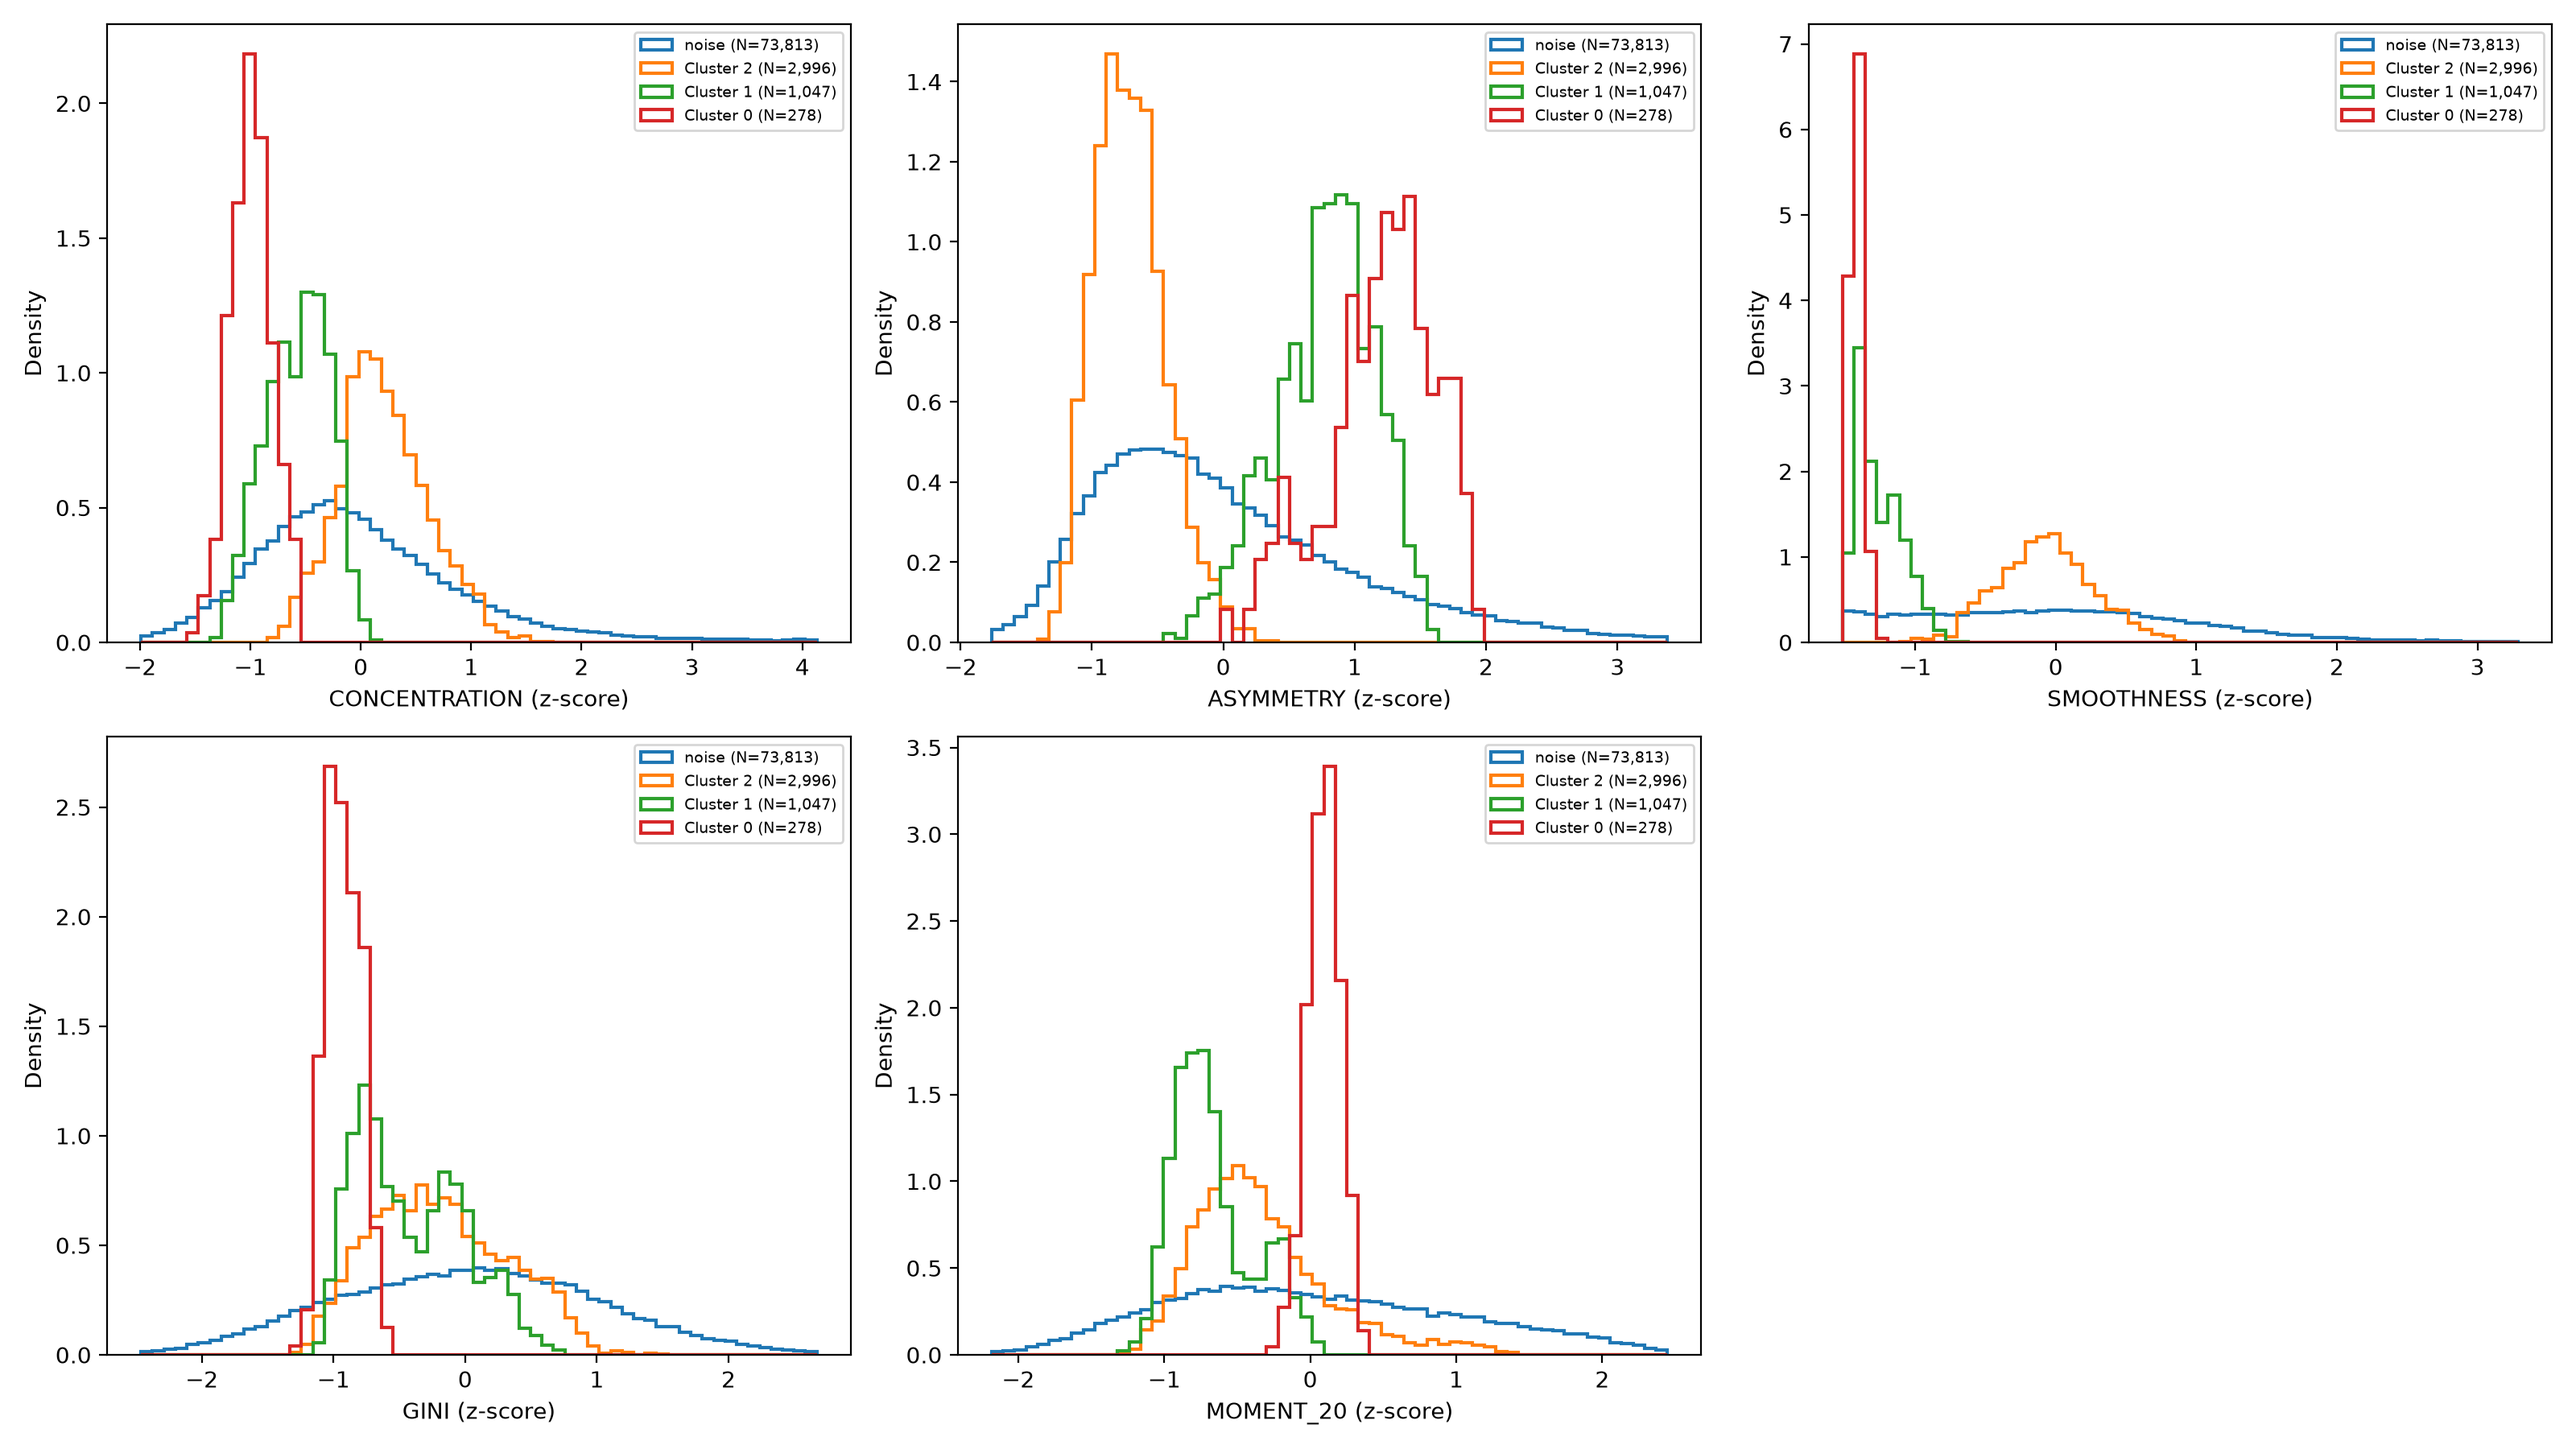
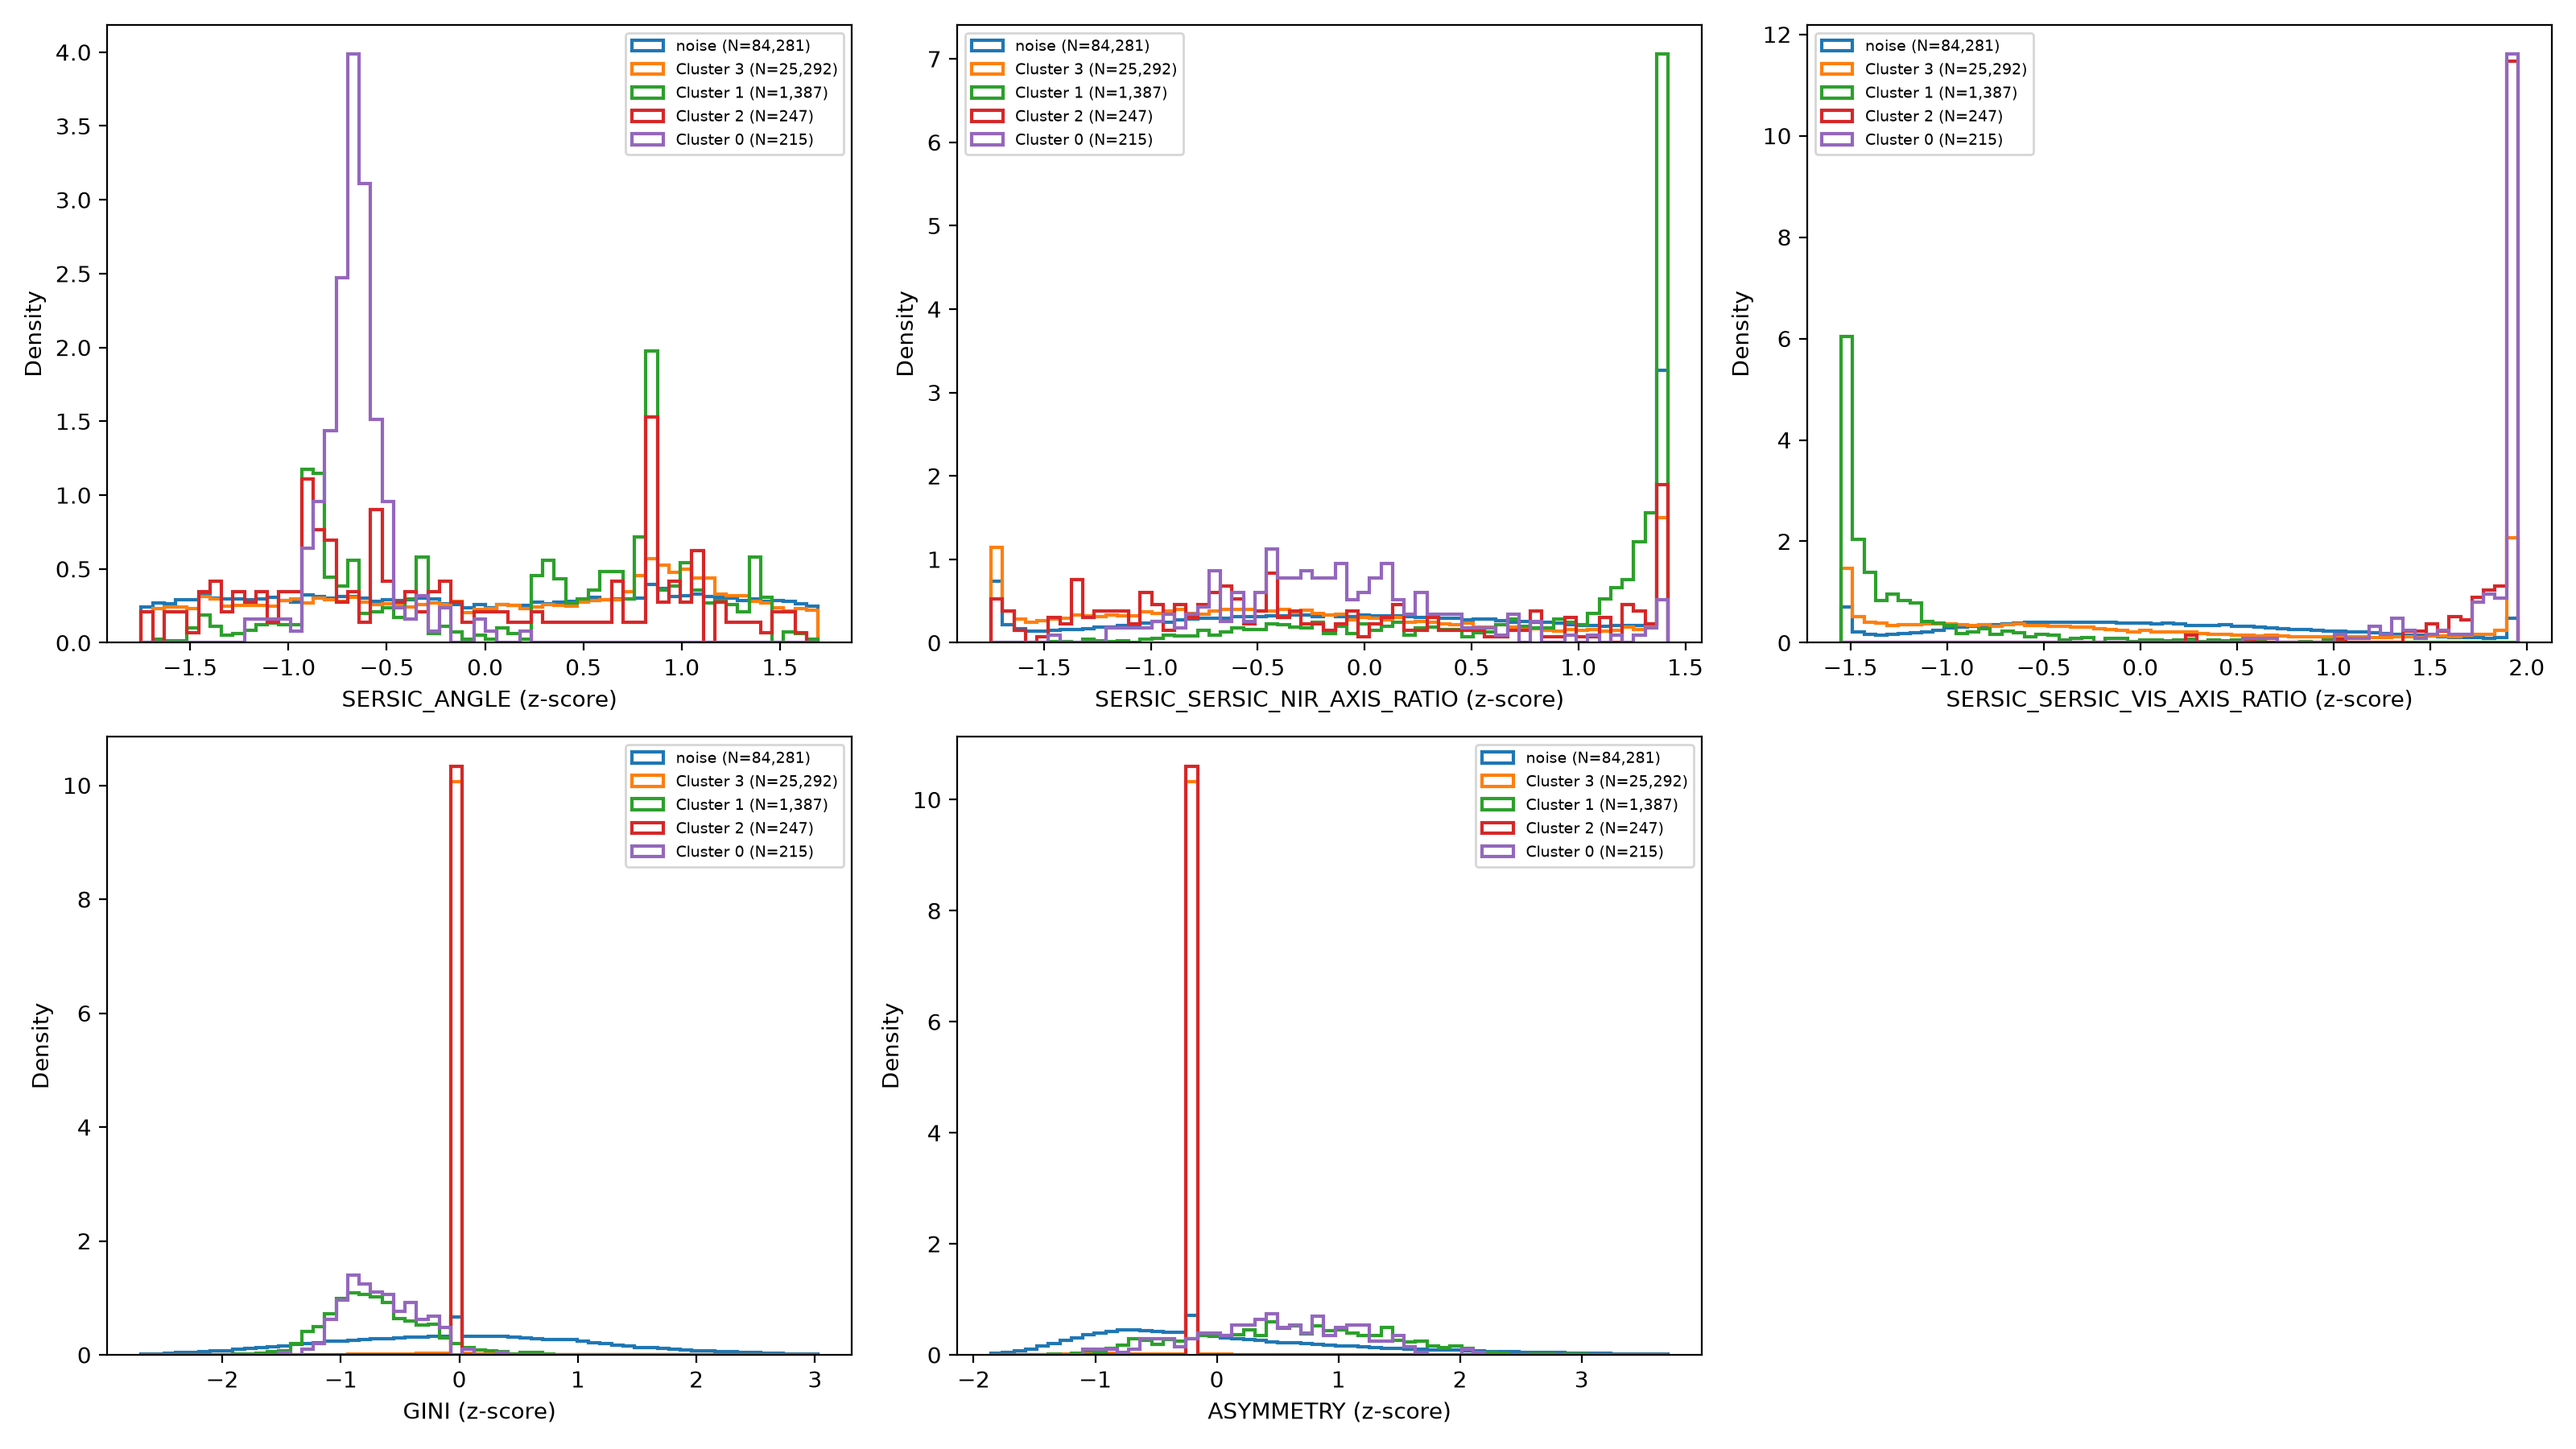
hdbscan

diff --git a/HDBSCAN.py b/HDBSCAN.py
@@ -165,9 +165,13 @@ else:
     print("Silhouette undefined: fewer than 2 clusters found")
 
 #desnity plot for each feature
+
+n_cols = 3 
+n_rows = int(np.ceil(n_imp_features / n_cols))
+
 groups = labels_s.value_counts().index[:6]            
 
-fig, axes = plt.subplots(2, 3, figsize=(16, 9))
+fig, axes = plt.subplots(n_rows, n_cols, figsize=(5 * n_cols, 4 * n_rows))
 axes = axes.flatten()
 
 for j, (ax, feat) in enumerate(zip(axes, top_features)):
@@ -185,7 +189,9 @@ for j, (ax, feat) in enumerate(zip(axes, top_features)):
     ax.set_ylabel("Density")
     ax.legend(fontsize=7)
 
-axes[-1].set_visible(False)                           
+for i in range(len(top_features), len(axes)):
+    axes[i].set_visible(False)
+                        
 plt.tight_layout()
 plt.savefig("hdbscan_cluster_density.png", dpi=200)
 plt.close(fig)
@@ -208,19 +214,35 @@ fig, axes = plt.subplots(2, (n_imp_features//2), figsize=(16, 9))
 axes = axes.flatten()
 
 for ax, col in zip(axes, top_features):
-   
-    lo, hi = np.percentile(morph_cat_df[col], [0.1, 99.9])
-    bins = np.linspace(lo, hi, 80)
+    # 1. Get data for both groups
+    data_norm = normal[col].dropna()
+    data_anom = anomalies[col].dropna()
+    
+    # 2. Determine a robust range that includes both groups
+    # We take the min/max of the actual data present in both
+    all_data = pd.concat([data_norm, data_anom])
+    if len(all_data) > 0:
+        lo = all_data.min()
+        hi = all_data.max()
 
-    ax.hist(normal[col], bins=bins, density=True, alpha=0.5,
-            color="tab:green", label=f"Normal (N={len(normal):,})")
-    ax.hist(anomalies[col], bins=bins, density=True, alpha=0.5,
-            color="tab:red", label=f"Anomaly (N={len(anomalies):,})")
+        print(f"Feature: {col}")
+        print(f"  Normal range: {normal[col].min():.2f} to {normal[col].max():.2f}")
+        print(f"  Anomaly range: {anomalies[col].min():.2f} to {anomalies[col].max():.2f}")
+        print(f"  Plotting bins: {lo:.2f} to {hi:.2f}")
 
-    ax.set_xlabel(col)
-    ax.set_ylabel("Density")
-    ax.legend()
+        # Use more bins if the range is large, fewer if small
+        bins = np.linspace(lo, hi, 80)
 
+        ax.hist(data_norm, bins=bins, density=True, alpha=0.5,
+                color="tab:green", label=f"Normal (N={len(data_norm):,})")
+        ax.hist(data_anom, bins=bins, density=True, alpha=0.5,
+                color="tab:red", label=f"Anomaly (N={len(data_anom):,})")
+        
+        ax.set_xlabel(col)
+        ax.set_ylabel("Density")
+        ax.legend(fontsize=8)
+    else:
+        ax.set_title(f"{col} (No Data)")
 
 plt.tight_layout()
 plt.savefig("anomaly_density_hdbscan.png", dpi=200)
